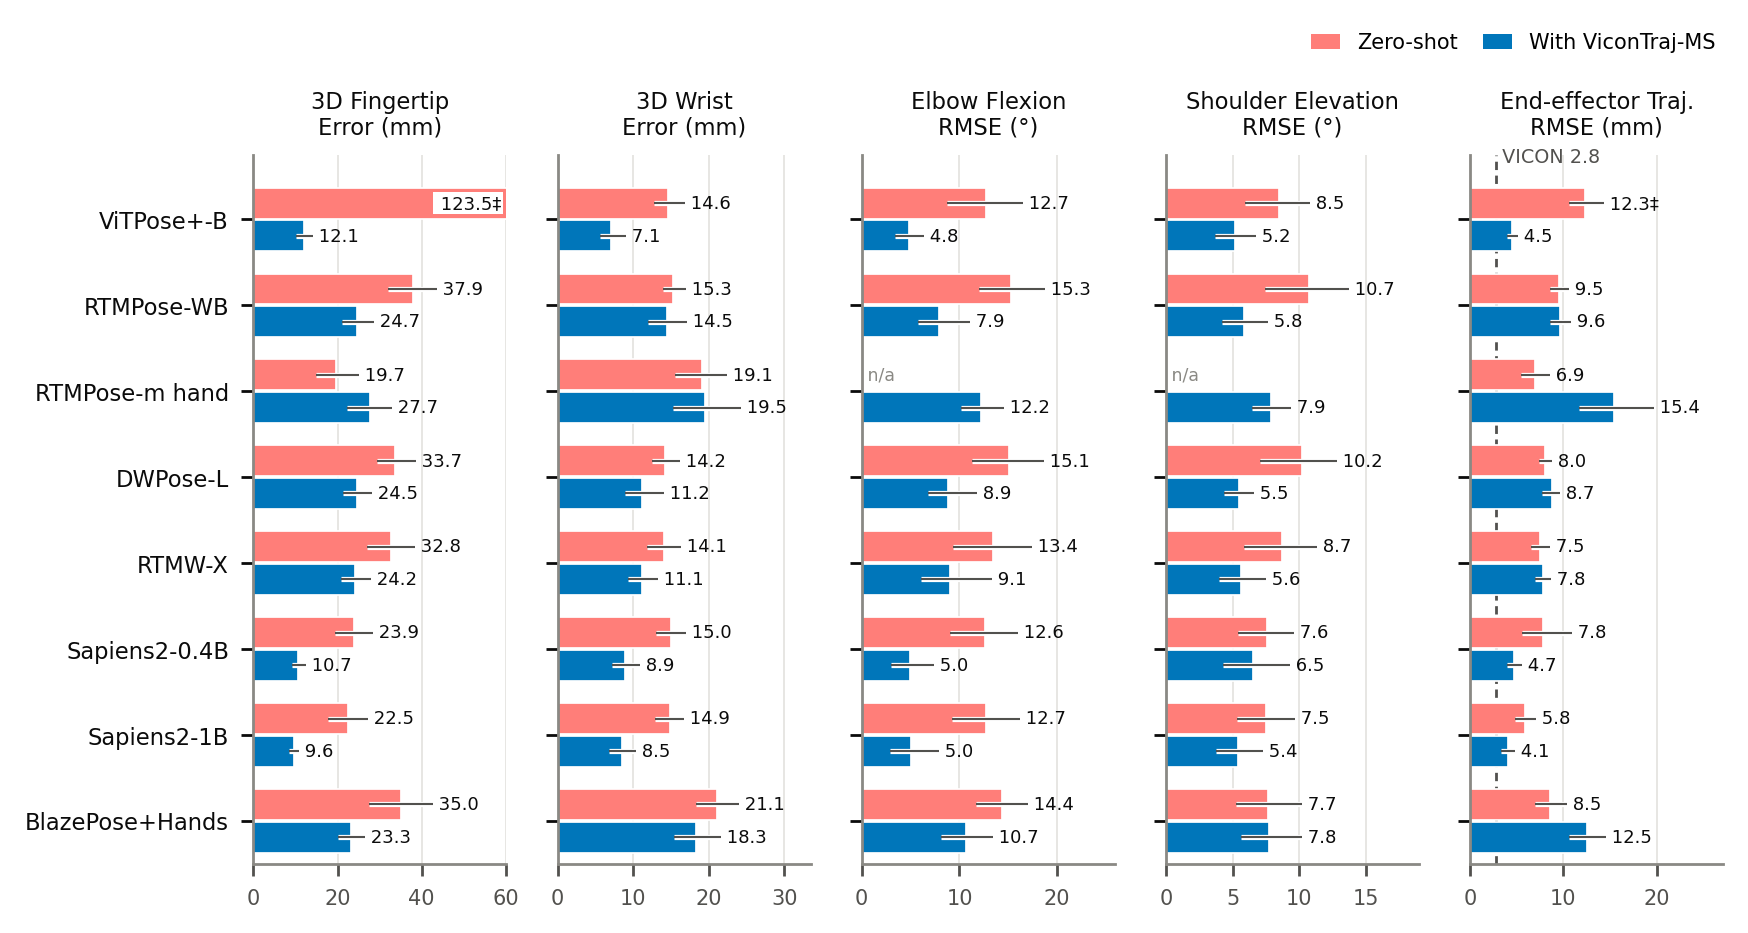
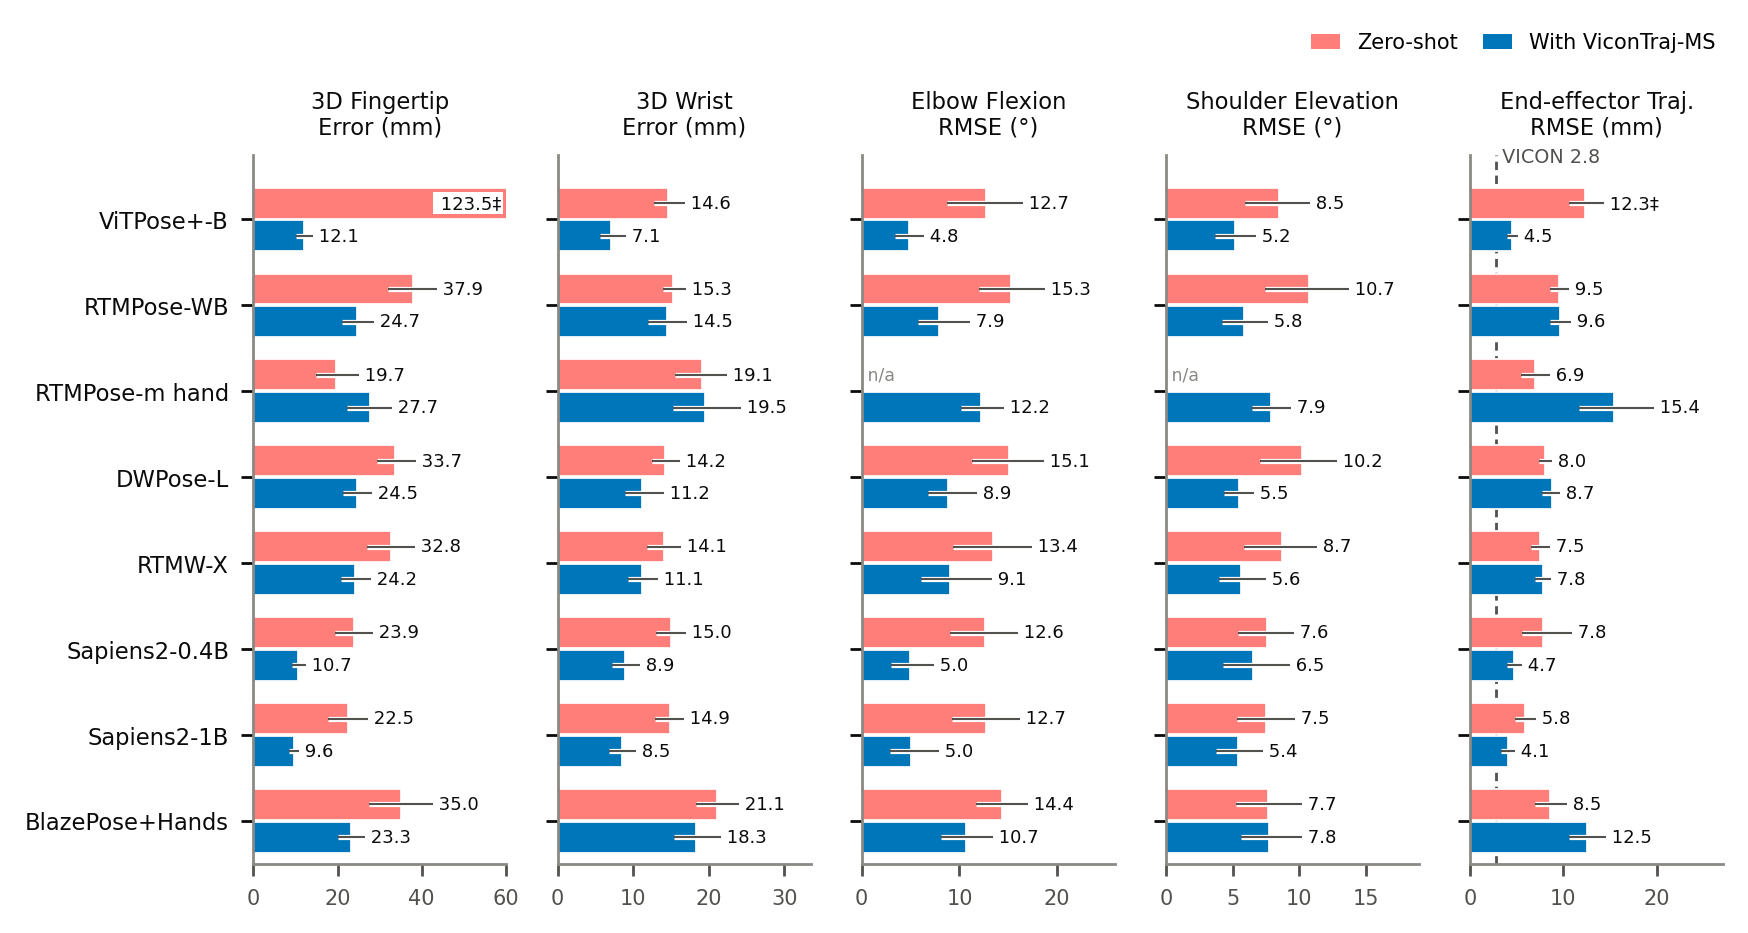
Results figure: no grid lines

diff --git a/analysis/make_results.py b/analysis/make_results.py
@@ -720,7 +720,7 @@ def fig_zs_ft(q1, q2, ang):
                     t.set_ha("right")
                     t.set_bbox(dict(facecolor="white", lw=0, pad=0.5))
         ax.set_title(title, fontsize=6.5, linespacing=1.15)
-        ax.grid(axis="y", visible=False)
+        ax.grid(False)
         ax.set_ylim(len(ZS) - 0.5, -0.75)
     axes[0].set_yticks([y_zs[v] for v in ZS])
     axes[0].set_yticklabels([FIGLAB[v] for v in ZS])
